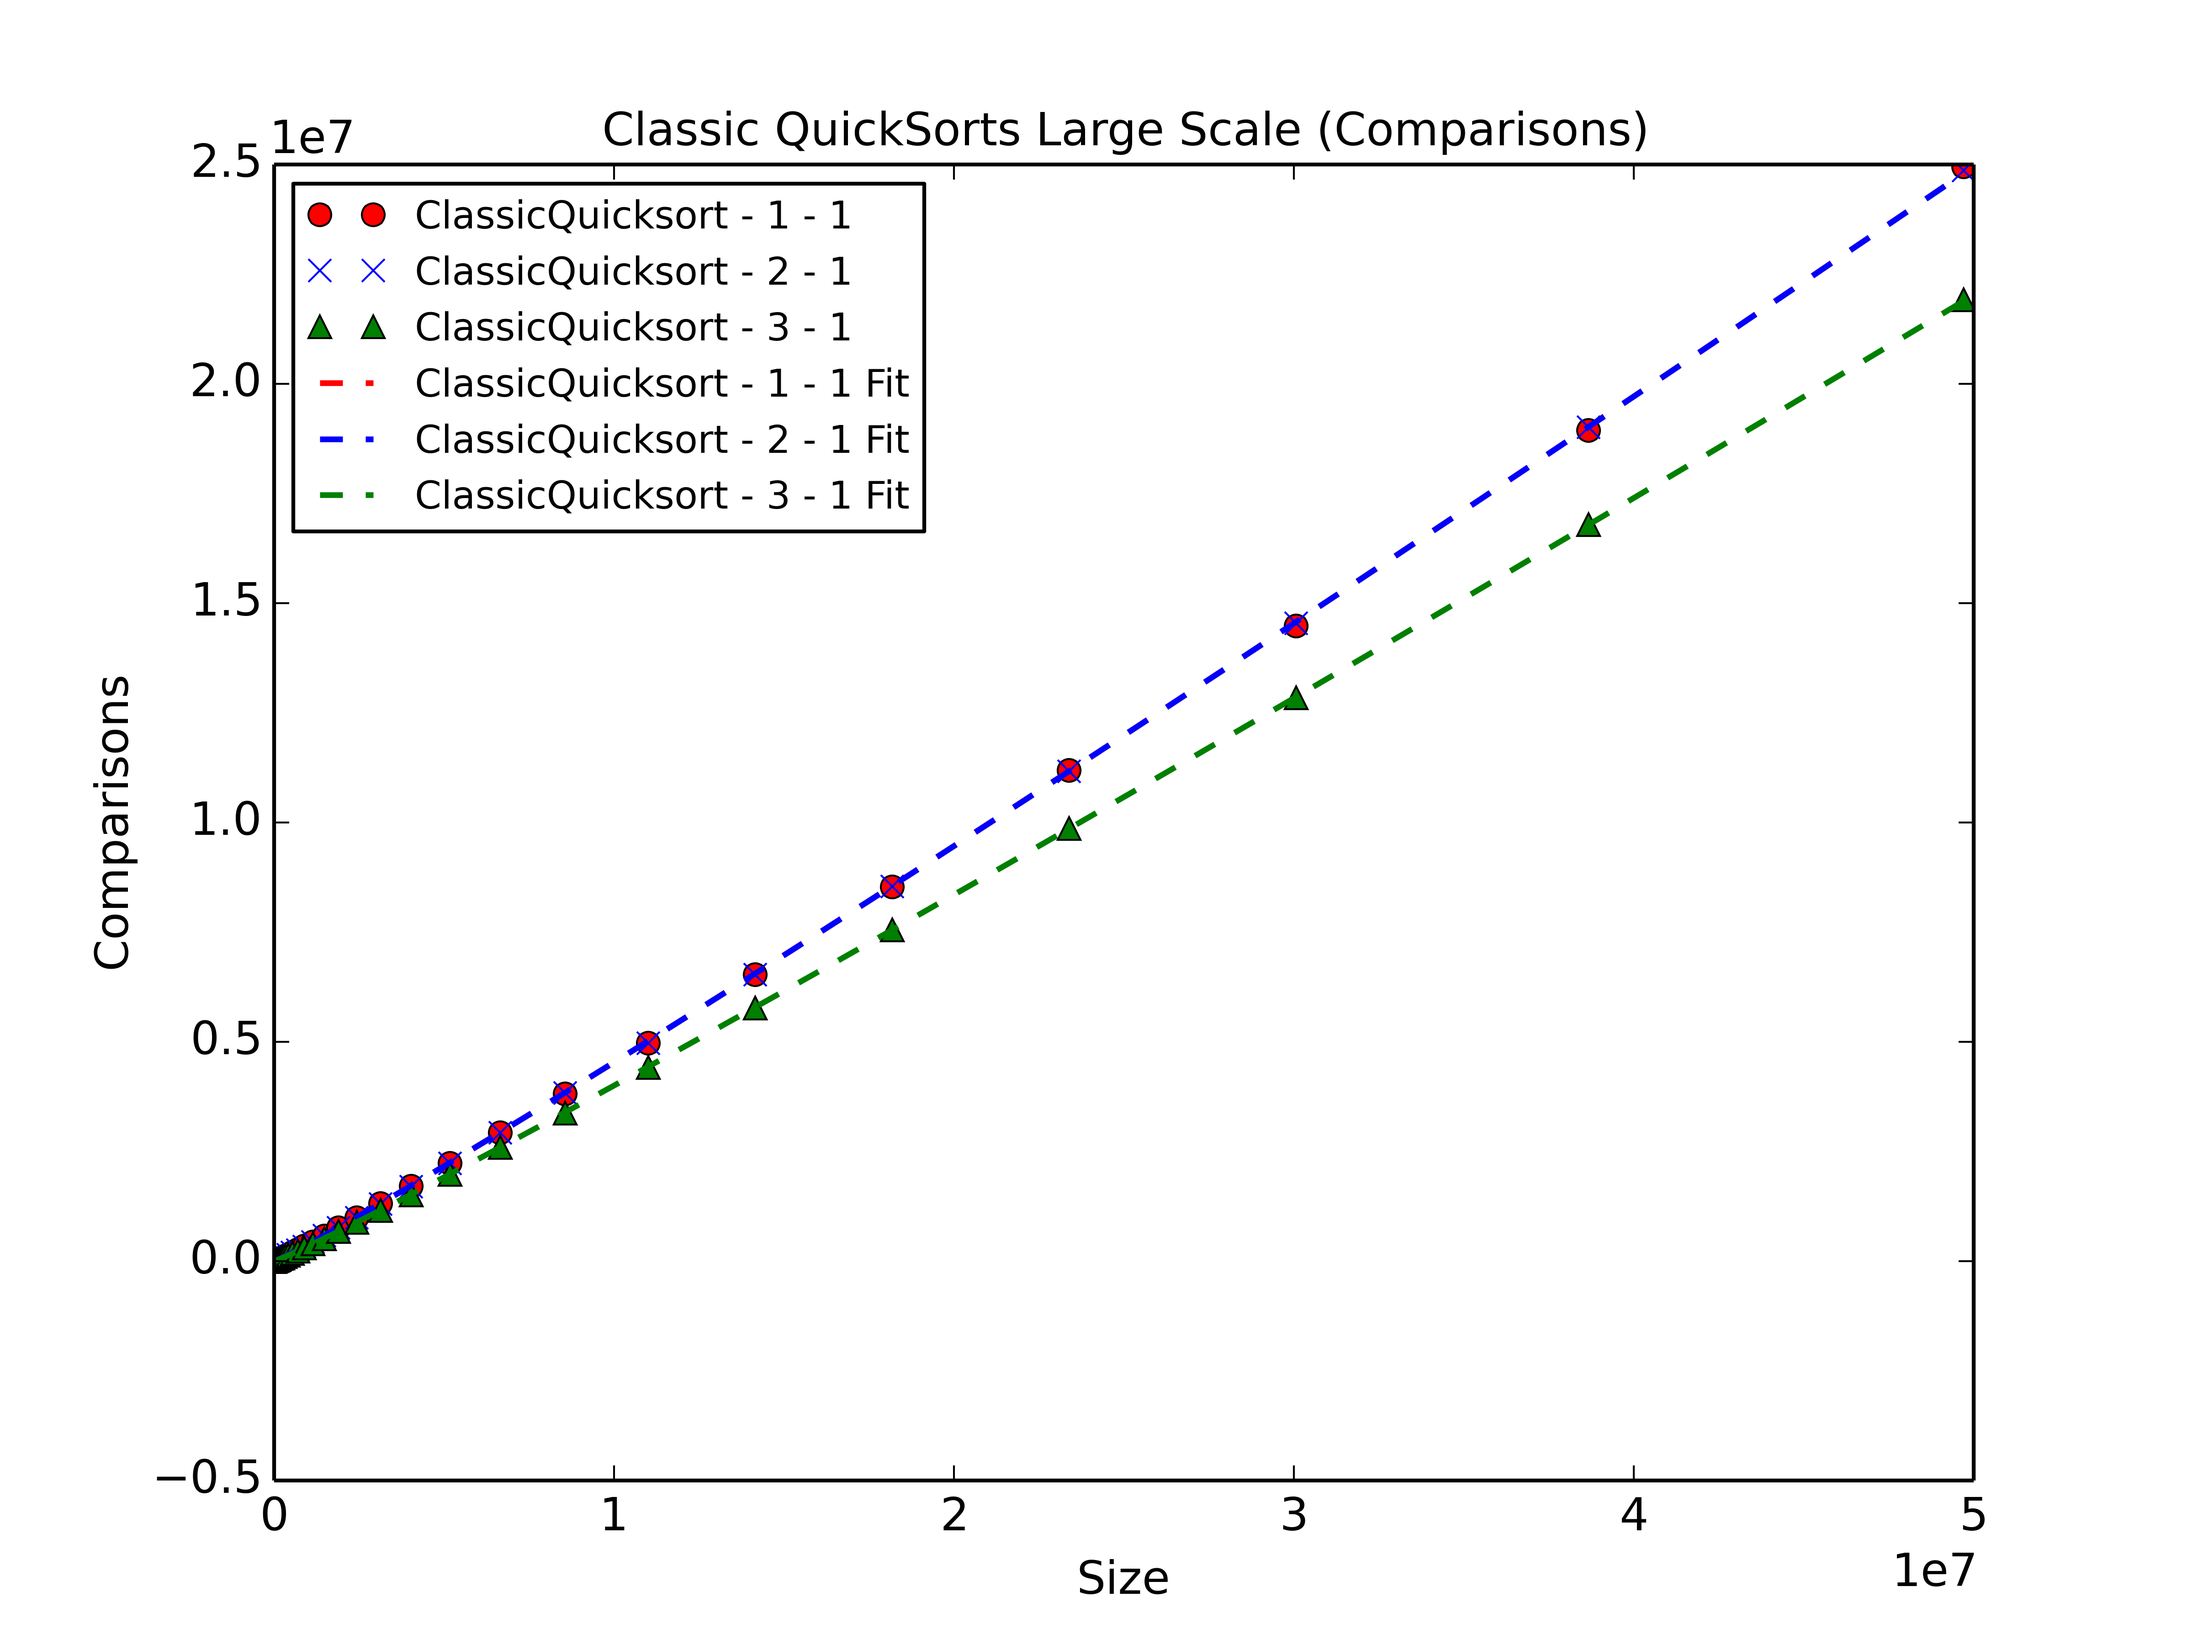
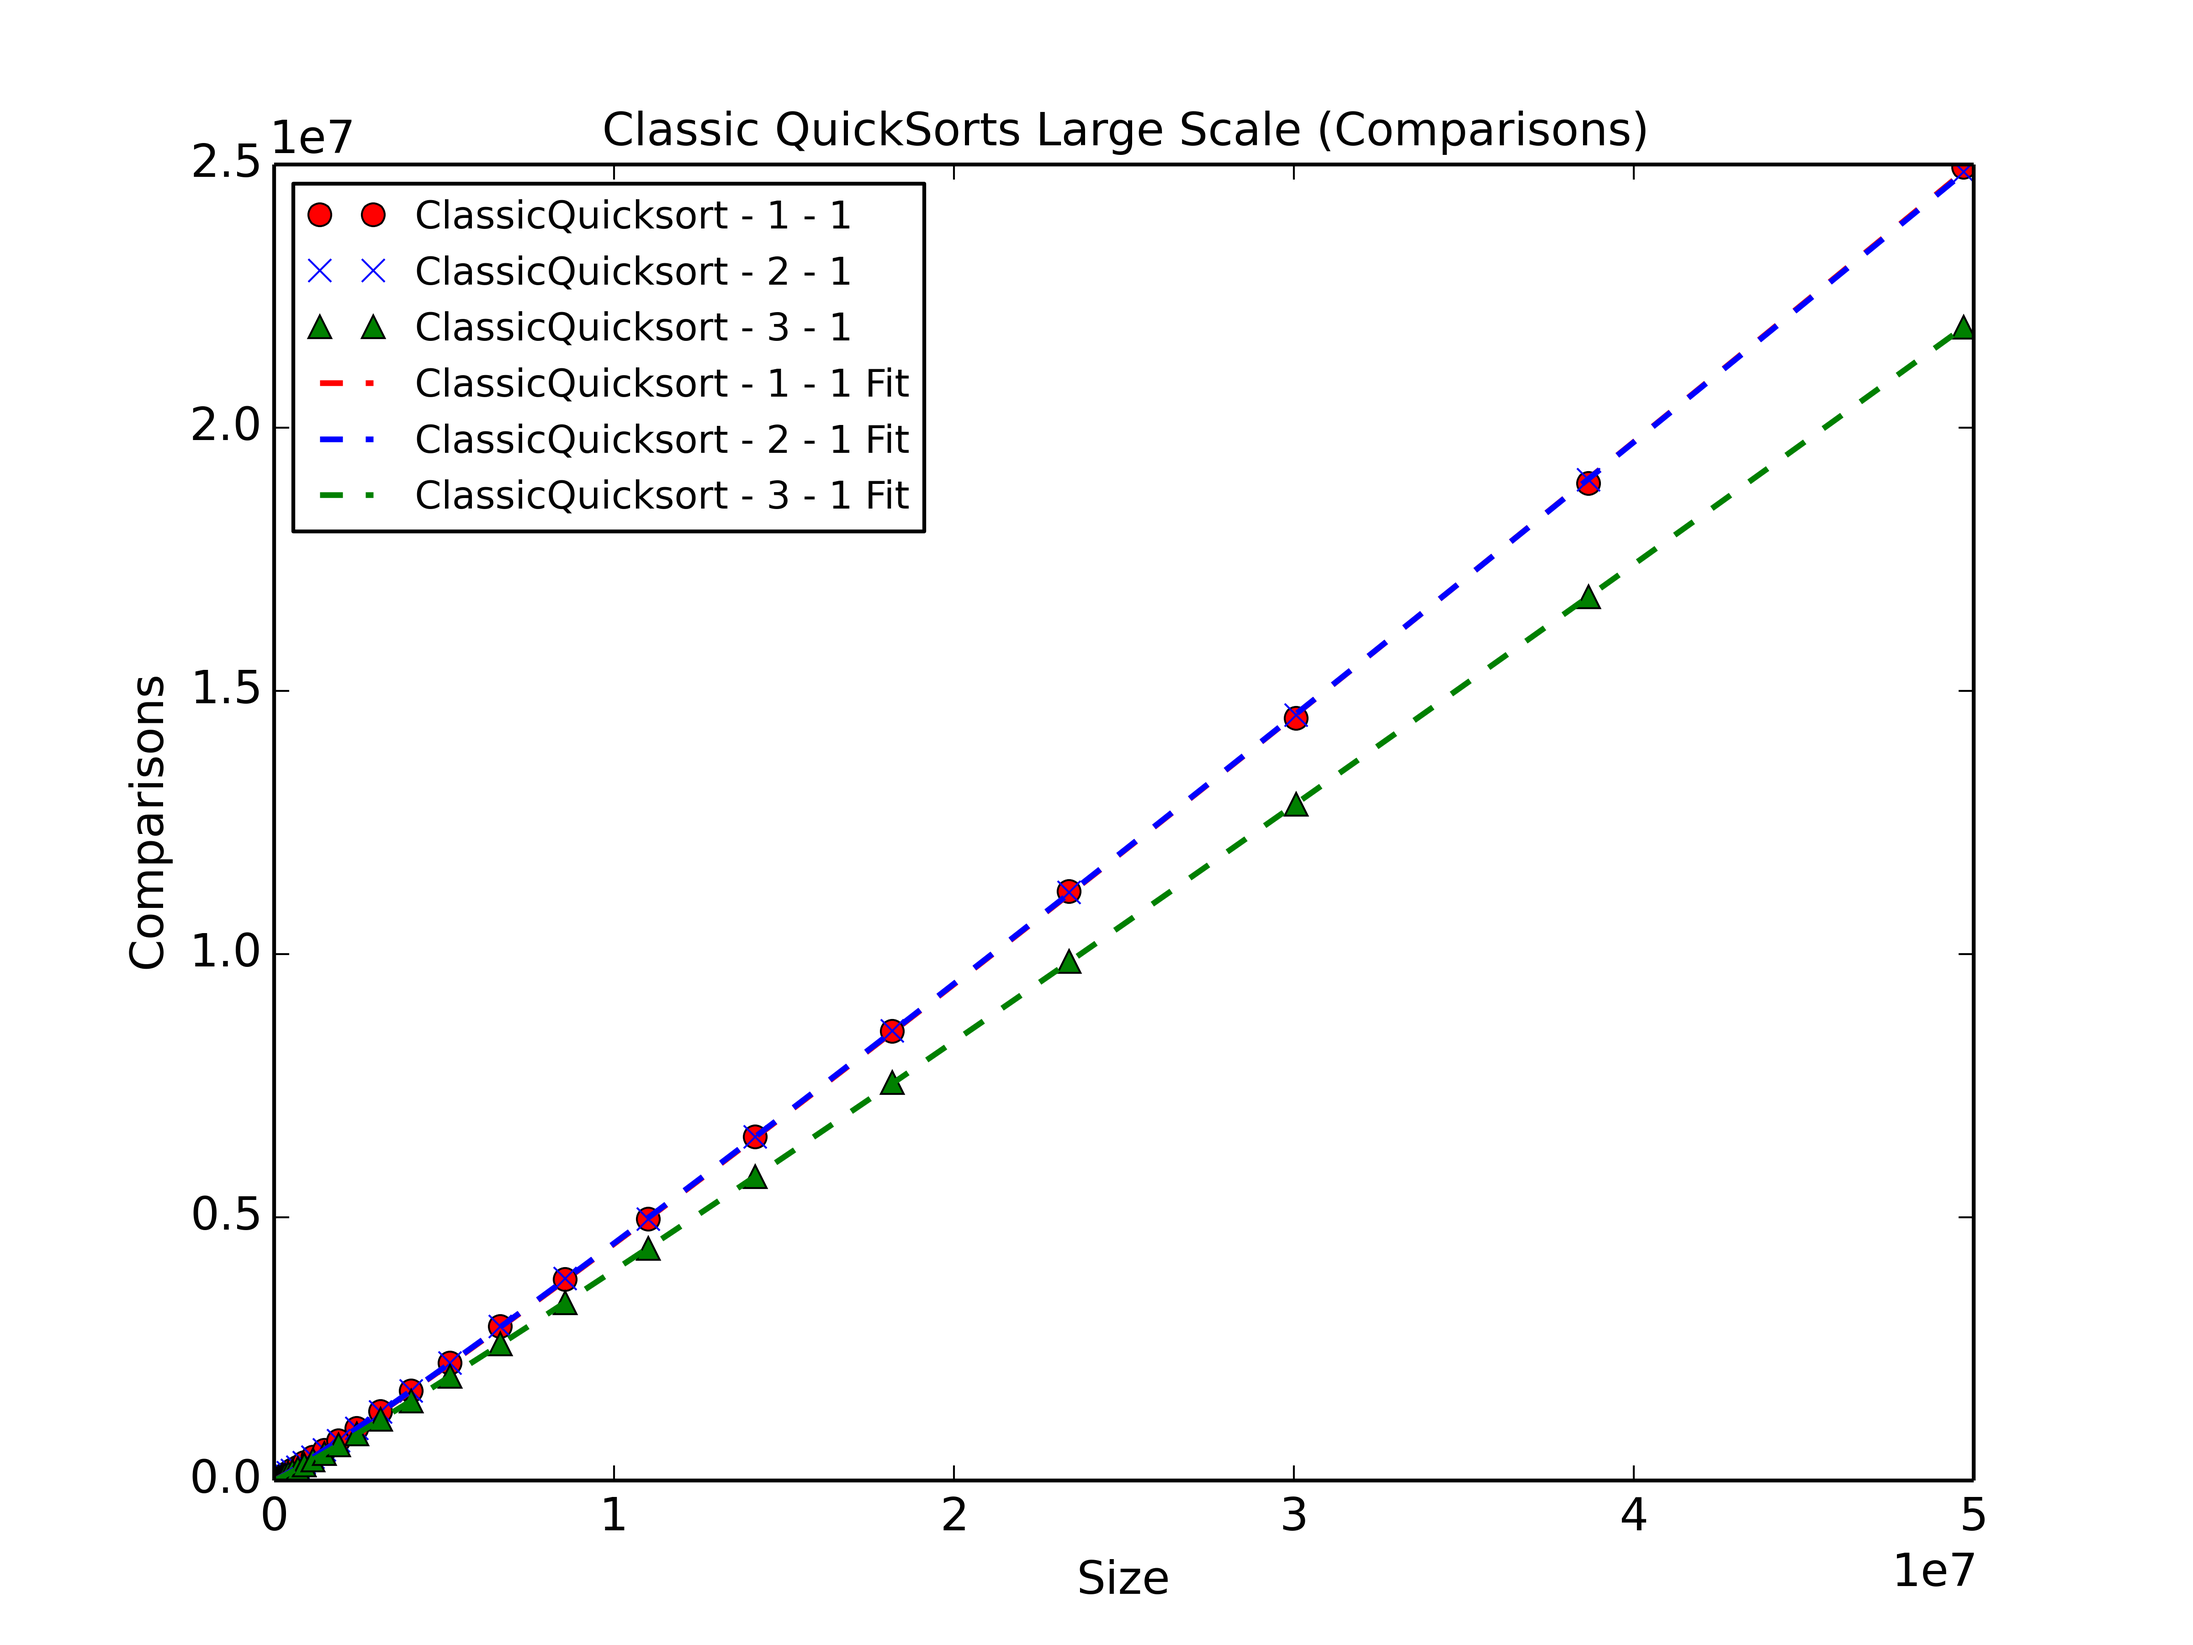
Modified dataAnlysis to use scipy so that we can use a non-linear curve fit function. Based off all the theory, the runtime equations seems to be of the form A n log(n) + B n + C log(n). As such we use the non-linear fit function to find the fit parameters. We can use these to have a better understa

diff --git a/Code/Analysis/dataAnalysis.py b/Code/Analysis/dataAnalysis.py
@@ -1,5 +1,6 @@
 from matplotlib import pyplot as plt
 import numpy as np
+from scipy.optimize import curve_fit
 
 fileName = 'alldata.csv'
 
@@ -106,7 +107,7 @@ def getData(filePath):
 
 
         sizeList = np.array(sizeList, dtype = np.int64)
-        timeList = np.array(timeList, dtype = np.float128)
+        timeList = np.array(timeList, dtype = np.float64)
         compList = np.array(compList, dtype = np.int64)
         swapList = np.array(swapList, dtype = np.int64)
 
@@ -352,15 +353,13 @@ def plotPolynomialFit(data,fitParameters,figureList,
             xVals = np.linspace(xMin,xMax,numPoints)
 
             if plotComp :
-                compFitFunc = lambda xx:(compCoef[0]*xx*np.log2(xx) + compCoef[1])
-                #compFitFunc = lambda xx:(compCoef[0]*xx*np.log2(xx) + compCoef[1]*xx)
+                compFitFunc = lambda xx:fitFunction(xx,*tuple(compCoef))
 
                 plt.figure(compFigure.number)
                 plotter(xVals,compFitFunc(xVals),marker,label=convertLabelToStr(label)+" Fit",linewidth = linewidth)
 
             if plotSwap :
-                swapFitFunc = lambda xx:(swapCoef[0]*xx*np.log2(xx) + swapCoef[1])
-                #swapFitFunc = lambda xx:(swapCoef[0]*xx*np.log2(xx) + swapCoef[1]*xx)
+                swapFitFunc = lambda xx:fitFunction(xx,*tuple(swapCoef))
 
                 plt.figure(swapFigure.number)
                 plotter(xVals,swapFitFunc(xVals),marker,label=convertLabelToStr(label)+" Fit",linewidth = linewidth)
@@ -448,37 +447,6 @@ def extractYLim(data,goodFunction,badFunction,xlim):
 
     return [yMinTime,yMaxTime],[yMinComp,yMaxComp],[yMinSwap,yMaxSwap]
 
-def leastSquaresPolyFit(xx,yy,kk):
-    '''
-    Applies Least Squares regression on the data do create
-    the coefficient of a polynomial of degree kk
-    '''
-    nn = len(xx)
-    MM = np.ones([nn,kk+1])
-
-    xx = np.matrix(xx)
-    xx = xx.transpose()
-    xx = np.array(xx)
-
-    MM[:,kk-1] = xx[:,0]
-
-    for jj in range(kk-1,-1,-1):
-        # loop backwards from k-1 to 0 
-        MM[:,jj] = xx[:,0]*MM[:,jj+1]
-
-    MM = np.matrix(MM)
-
-    yy = np.matrix(yy)
-    yy = yy.transpose()
-
-    tempM = MM.transpose() * MM
-
-    params = tempM**(-1) *  MM.transpose() * yy 
-
-    params = params.transpose()
-    params = np.array(params)
-
-    return params[0] # an odd fix to cast to 1-D array
 
 def calcLeastSquaresOnData(data):
     '''
@@ -506,25 +474,13 @@ def calcLeastSquaresOnData(data):
     for label in keyList :
         sizeList,timeList,compList,swapList = data[label]
 
-        sizeList = np.array(sizeList, dtype = np.float128)
-        timeList = np.array(timeList, dtype = np.float128)
-        compList = np.array(compList, dtype = np.float128)
-        swapList = np.array(swapList, dtype = np.float128)
+        sizeList = np.array(sizeList, dtype = np.float64)
+        timeList = np.array(timeList, dtype = np.float64)
+        compList = np.array(compList, dtype = np.float64)
+        swapList = np.array(swapList, dtype = np.float64)
 
-        # First Transformation
-        xx = sizeList * np.log2(sizeList)
-        
-        compY = compList
-        swapY = swapList
-
-        # Second Transformation
-        #xx = np.log2(sizeList)
-        #
-        #compY = compList/sizeList
-        #swapY = swapList/sizeList
-
-        compCoef = leastSquaresPolyFit(xx, compY, 1)
-        swapCoef = leastSquaresPolyFit(xx, swapY, 1)
+        compCoef,compCov = curve_fit(fitFunction, sizeList, compList)
+        swapCoef,swapCov = curve_fit(fitFunction, sizeList, swapList)
 
         fitParameters[label] = compCoef,swapCoef
 
@@ -532,15 +488,18 @@ def calcLeastSquaresOnData(data):
     print "COMPARISON COEFFICIENTS"
     for label in keyList :
         compCoef,swapCoef = fitParameters[label]
-        print "%45s | %9.4f | %9.4f "%(convertLabelToStr(label),compCoef[0],compCoef[1])
+        print "%40s | %9.5f | %9.4f | %9.4f "%(convertLabelToStr(label),compCoef[0],compCoef[1],compCoef[2])
 
     print ""
     print "SWAP COEFFICIENTS"
     for label in keyList :
         compCoef,swapCoef = fitParameters[label]
-        print "%45s | %9.4f | %9.4f "%(convertLabelToStr(label),swapCoef[0],swapCoef[1])
+        print "%40s | %9.5f | %9.4f | %9.4f "%(convertLabelToStr(label),swapCoef[0],swapCoef[1],compCoef[2])
 
     return fitParameters
+
+def fitFunction(xx,AA,BB,CC):
+    return AA*xx*np.log2(xx)+BB*xx+CC*np.log2(xx)
 
 def saveFigure(figure,fileName,fileExtention = '.png',dpi = 600):
     fullFileName = fileName + fileExtention
@@ -571,7 +530,8 @@ def plotDataAndFit(data,fitParameters,
                     connectDataPoints = False,
                     linewidth = 1.5,
                     numPoints = 10**3,
-                    savePlot = False) :
+                    savePlot = False,
+                    dpi = 600) :
 
     figureList = plotData(data,
                     plotComp = plotComp, 
@@ -602,8 +562,8 @@ def plotDataAndFit(data,fitParameters,
     if savePlot :
         fileName = "".join(plotTitle.split() )
         compFigure,swapFigure = figureList
-        saveFigure(compFigure,fileName+"_comp",fileExtention = '.png',dpi = 600)
-        saveFigure(swapFigure,fileName+"_swap",fileExtention = '.png',dpi = 600)
+        saveFigure(compFigure,fileName+"_comp",fileExtention = '.png',dpi = dpi)
+        saveFigure(swapFigure,fileName+"_swap",fileExtention = '.png',dpi = dpi)
 
     return figureList
 
@@ -656,9 +616,6 @@ def main():
 
     fitParameters = calcLeastSquaresOnData(data)
 
-    #plotData(data,makeLegend=False)
-    #plotData(data,makeLegend=False,plotter = plt.semilogx)
-
     maskFunctionList = [ classicQuickSortOnly,dualPivotQuicksortOnly,heapOptimizedMPivotQuicksortOnly,
                         mPivotQuicksortOnly, optimalDualPivotQuicksortOnly,threePivotQuicksortOnly,
                         yaroslavskiyQuicksortOnly, onePivot,twoPivot,threePivot,allMPivotQuicksortKinds]
@@ -669,22 +626,19 @@ def main():
 
     smallScaleLimits = [100,1000]
 
-    #plotDataAndFit(data,fitParameters, plotTitle = 'Legend Plot', connectDataPoints = True,legendSize=15,savePlot=True)
+    plotDataAndFit(data,fitParameters, plotTitle = 'Legend Plot', connectDataPoints = True,legendSize=15,savePlot=True)
+    plotDataAndFit(data,fitParameters, plotTitle = 'All the Plots Small Scale',xlim = smallScaleLimits, connectDataPoints = True,makeLegend=False,savePlot=True)
+    plotDataAndFit(data,fitParameters, plotTitle = 'All the Plots Large Scale', connectDataPoints = True,makeLegend=False,savePlot = True)
+    plotDataAndFit(data,fitParameters, plotTitle = 'Semilogx All Plots Large Scale ', connectDataPoints = True,makeLegend=False,savePlot = True,plotter = plt.semilogx)
     
-    #plotDataAndFit(data,fitParameters, plotTitle = 'All the Plots Small Scale',xlim = smallScaleLimits, connectDataPoints = True,makeLegend=False,savePlot=True)
-    #plotDataAndFit(data,fitParameters, plotTitle = 'All the Plots Large Scale', connectDataPoints = True,makeLegend=False,savePlot = True)
-    #plotDataAndFit(data,fitParameters, plotTitle = 'Semilogx All Plots Large Scale ', connectDataPoints = True,makeLegend=False,savePlot = True,plotter = plt.semilogx)
-
-    #for maskFunc,plotTitle in zip(maskFunctionList,maskFunctionTitleList):
-    #    plotDataAndFit(data, fitParameters,goodFunction = maskFunc, plotTitle = plotTitle+" Large Scale",savePlot = True)
+    for maskFunc,plotTitle in zip(maskFunctionList,maskFunctionTitleList):
+        plotDataAndFit(data, fitParameters,goodFunction = maskFunc, plotTitle = plotTitle+" Large Scale",savePlot = True)
     
-    #for maskFunc,plotTitle in zip(maskFunctionList,maskFunctionTitleList):
-    #    plotDataAndFit(data, fitParameters,goodFunction = maskFunc, plotTitle = plotTitle+" Small Scale", xlim =smallScaleLimits,connectDataPoints = True,savePlot = True)    
-
-
+    for maskFunc,plotTitle in zip(maskFunctionList,maskFunctionTitleList):
+        plotDataAndFit(data, fitParameters,goodFunction = maskFunc, plotTitle = plotTitle+" Small Scale", xlim =smallScaleLimits,connectDataPoints = True,savePlot = True)    
+    
     plotDataAndFit(data,fitParameters, goodFunction = allMPivotQuicksortKinds, plotTitle = "M-Pivot Quicksorts Large Scale",savePlot = True,legendSize=7)
     plotDataAndFit(data,fitParameters, goodFunction = allMPivotQuicksortKinds, plotTitle = "M-Pivot Quicksorts Small Scale",xlim = smallScaleLimits,connectDataPoints = True,savePlot = True,legendSize=7)
-
 
 
     #plotDataAndFit(data,fitParameters, goodFunction = customPlot, plotTitle = plotTitle+" Large Scale",savePlot = True)
